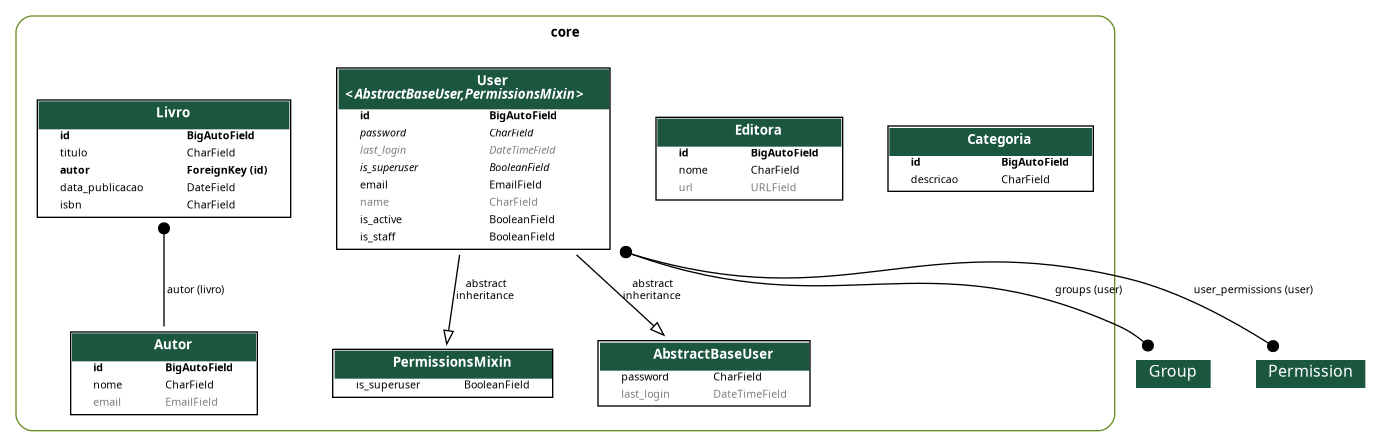
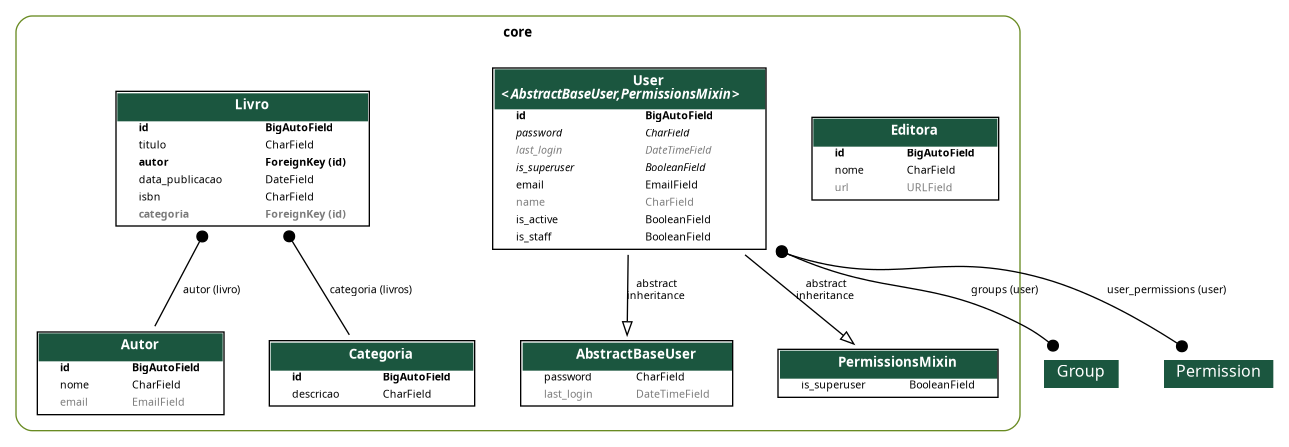
feat: criação do relacionamento entre livro e categoria

diff --git a/core/migrations/0007_livro_categoria.py b/core/migrations/0007_livro_categoria.py
@@ -1,0 +1,19 @@
+# Generated by Django 5.2.12 on 2026-03-20 13:20
+
+import django.db.models.deletion
+from django.db import migrations, models
+
+
+class Migration(migrations.Migration):
+
+    dependencies = [
+        ('core', '0006_autor_categoria_editora_livro'),
+    ]
+
+    operations = [
+        migrations.AddField(
+            model_name='livro',
+            name='categoria',
+            field=models.ForeignKey(blank=True, null=True, on_delete=django.db.models.deletion.PROTECT, related_name='livros', to='core.categoria'),
+        ),
+    ]

diff --git a/core/models/livro.py b/core/models/livro.py
@@ -5,6 +5,7 @@ class Livro(models.Model):
     autor = models.ForeignKey('Autor', on_delete=models.CASCADE)
     data_publicacao = models.DateField()
     isbn = models.CharField(max_length=13, unique=True)
+    categoria = models.ForeignKey('Categoria', on_delete=models.PROTECT, related_name='livros', null=True, blank=True)
 
     def __str__(self):
         return self.titulo
